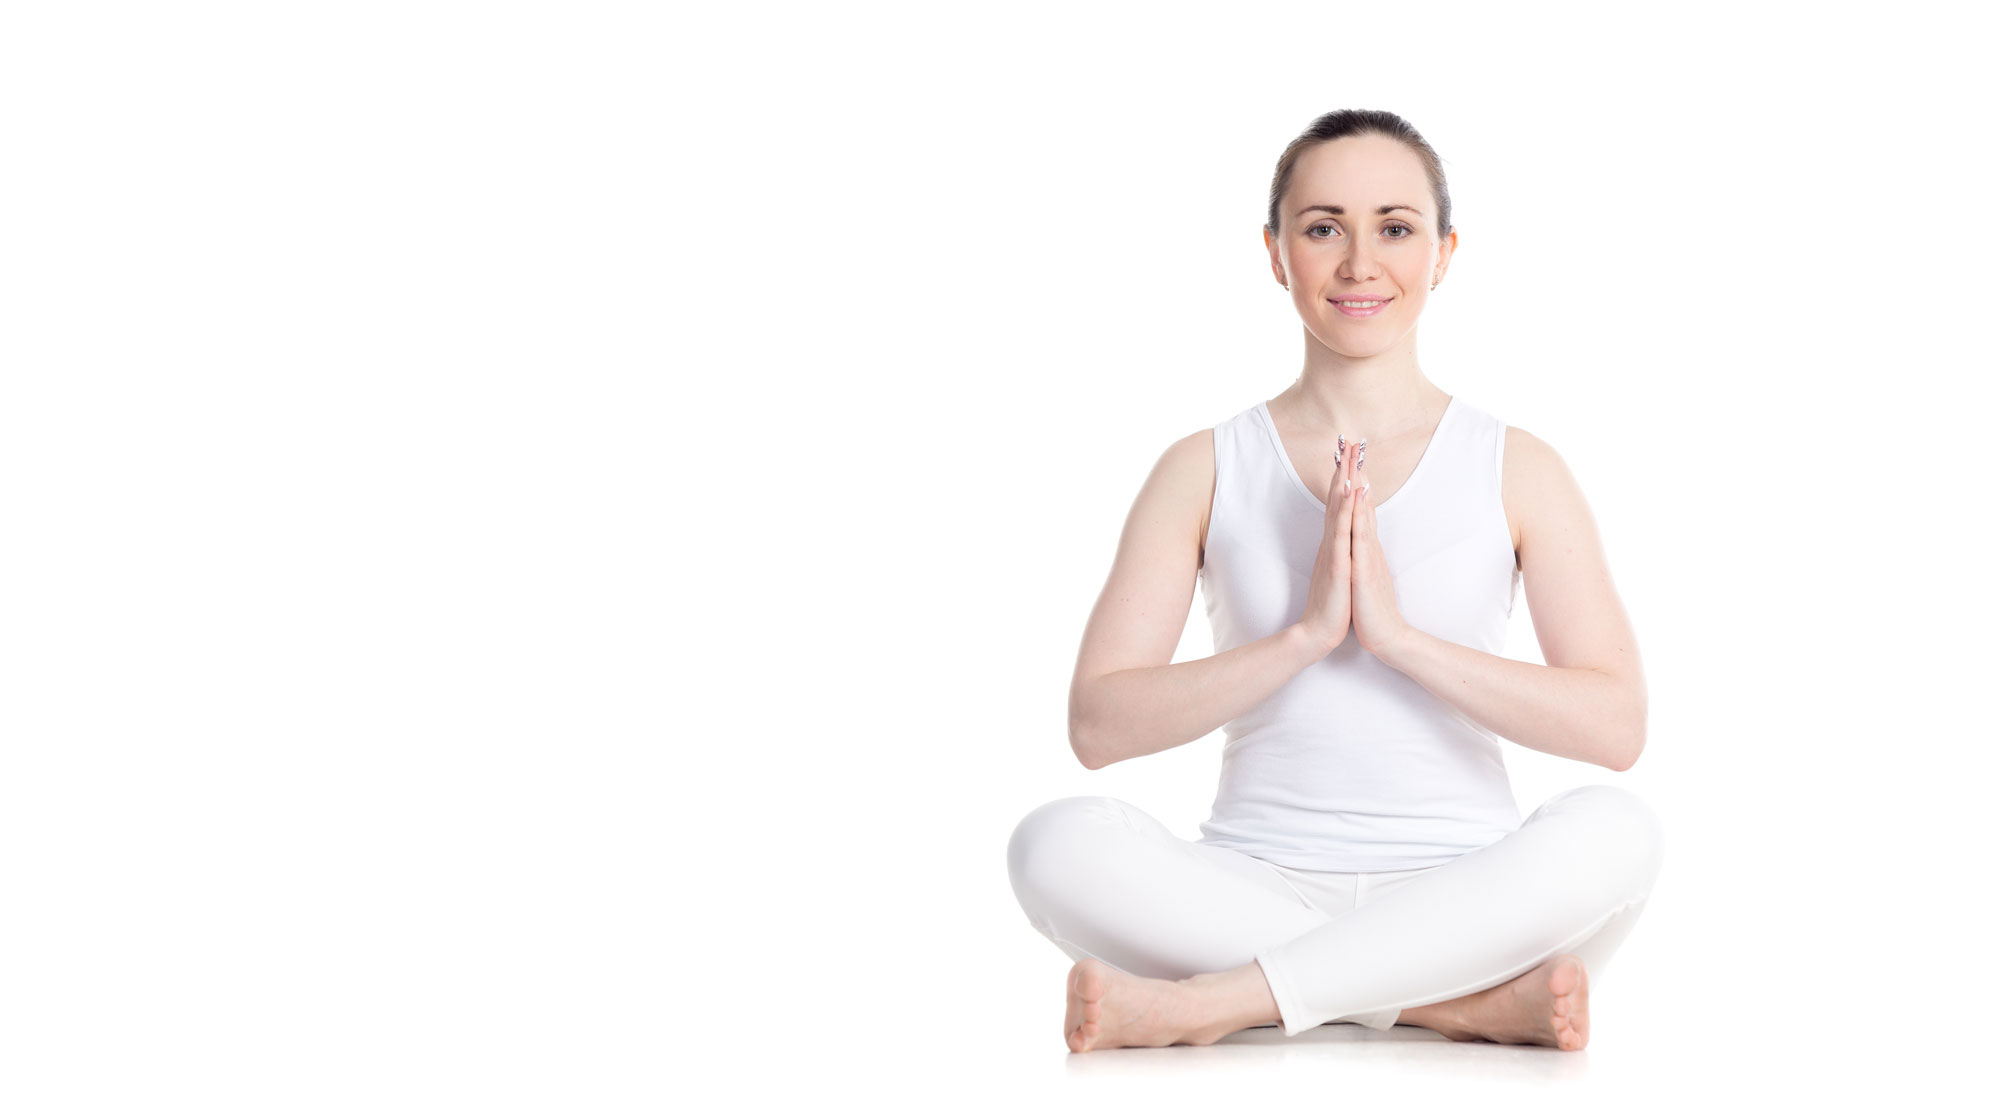
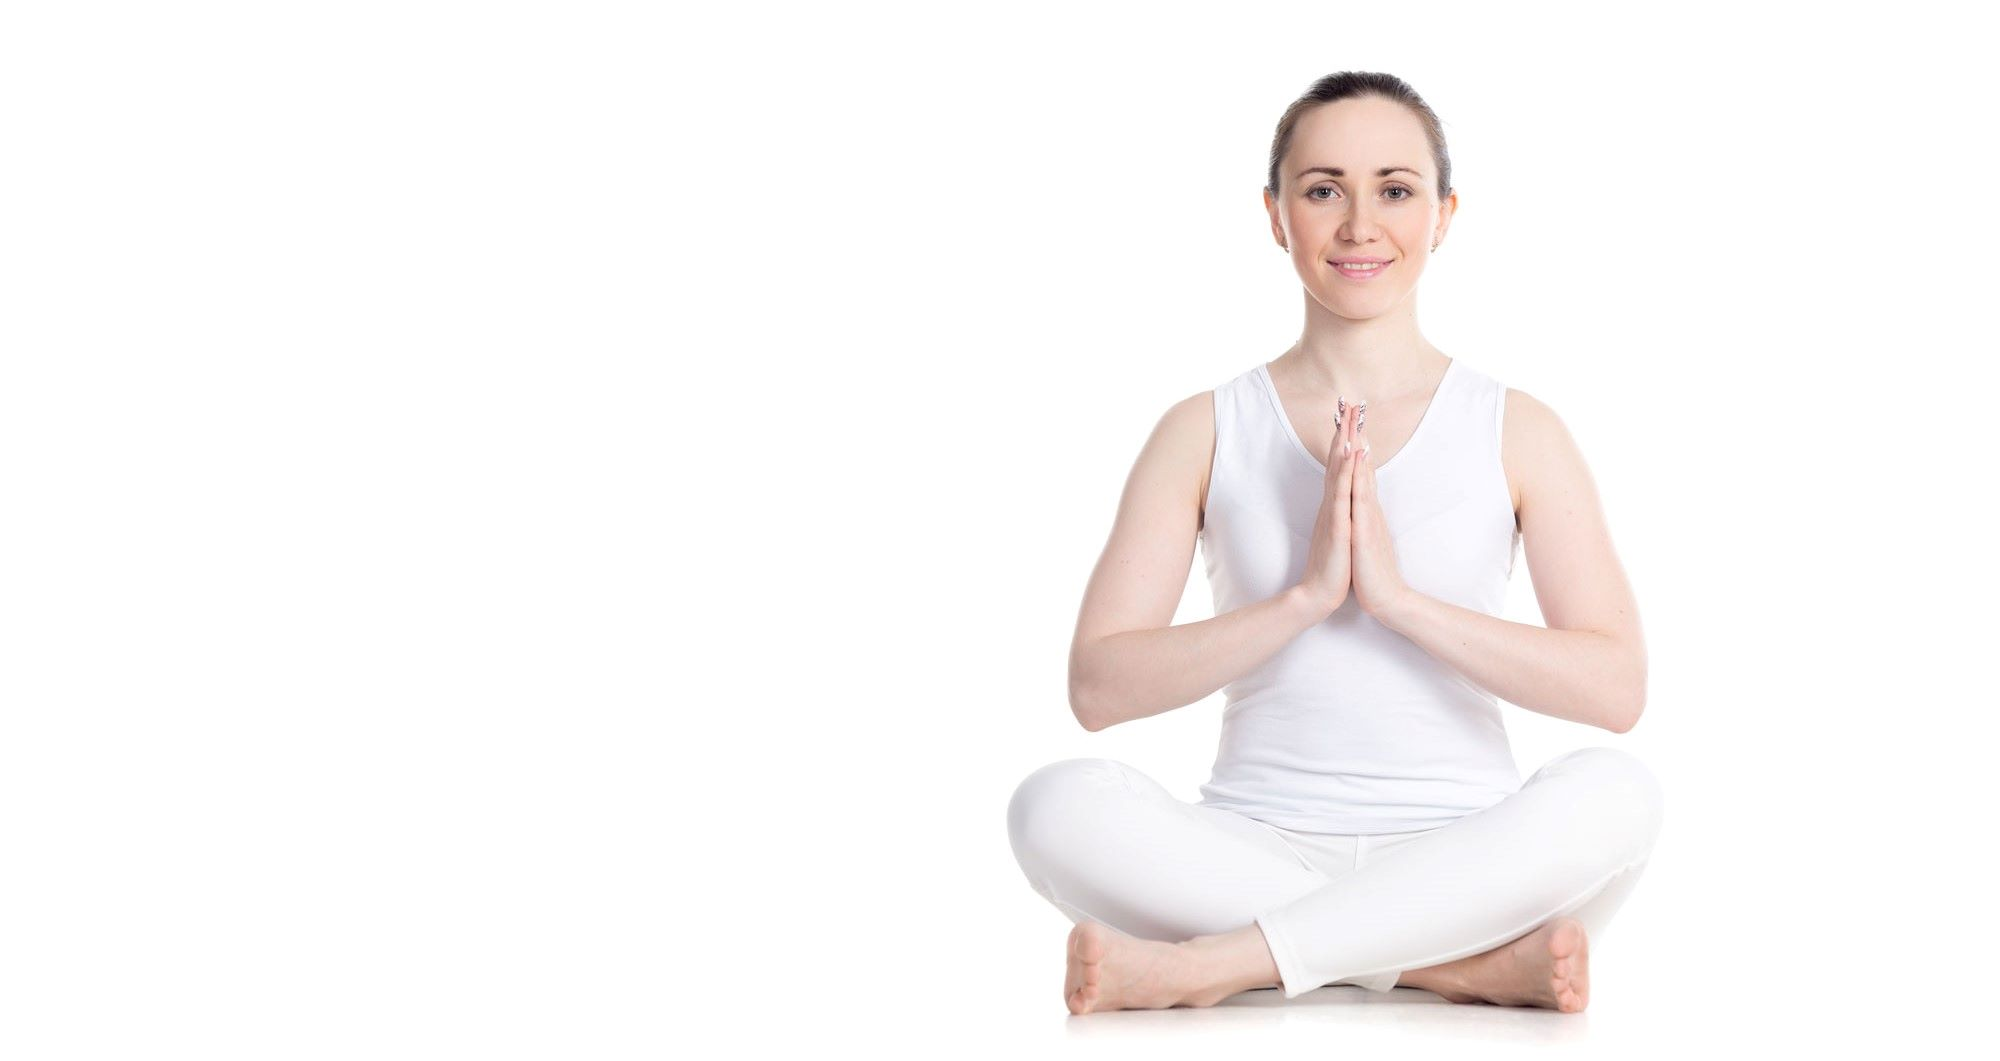
up

diff --git a/src/pages/Login/Login.jsx b/src/pages/Login/Login.jsx
@@ -6,6 +6,7 @@ import Swal from "sweetalert2";
 import { Link } from "react-router-dom";
 
 import video from "../../assets/video.mp4";
+import HeaderHome from "../../component/HeaderHome/HeaderHome"
 
 export default function Login() {
   const [phoneNumber, setPhoneNumber] = useState("");
@@ -45,6 +46,8 @@ export default function Login() {
   };
   return (
     <main>
+      {/* <div><HeaderHome className="header-login" /></div> */}
+
       <div className="box">
         <div className="inner-box">
           <div className="container flex">

diff --git a/src/templates/HomeTemplate/HomeCarousel/HomeCarousel.scss b/src/templates/HomeTemplate/HomeCarousel/HomeCarousel.scss
@@ -55,12 +55,12 @@ $black: #000;
 .hero-wrap {
   font-family: "Work Sans", sans-serif;
   width: 100%;
-  height: 700px;
+  height: 710px;
   position: relative;
   background-image: url(../../../assets/images/carousel-1.jpg);
   background-size: cover;
   background-repeat: no-repeat;
-  background-position: center center;
+  background-position: top;
   background-attachment: scroll;
   @media only screen and (max-width: 768px) {
     background-size: cover;

diff --git a/src/component/HeaderHome/HeaderHome.scss b/src/component/HeaderHome/HeaderHome.scss
@@ -1,6 +1,7 @@
 @import url("https://fonts.googleapis.com/css2?family=Work+Sans:wght@200;300;400;500;600;700&display=swap");
 .bg-header-scrolled {
   background-color: #000 !important;
+  position: fixed !important;
   width: 100% !important;
 
   .nav-item {
